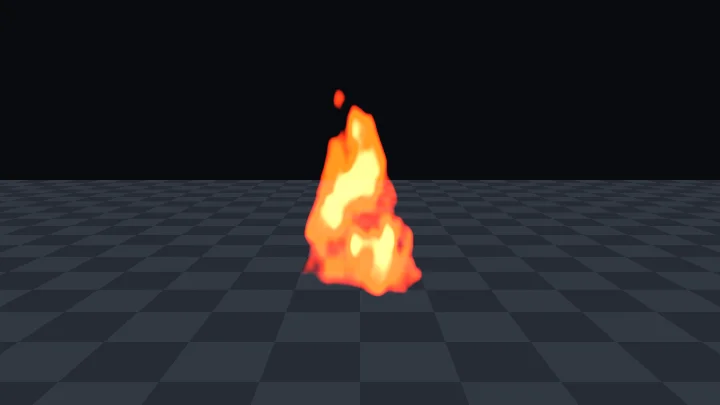
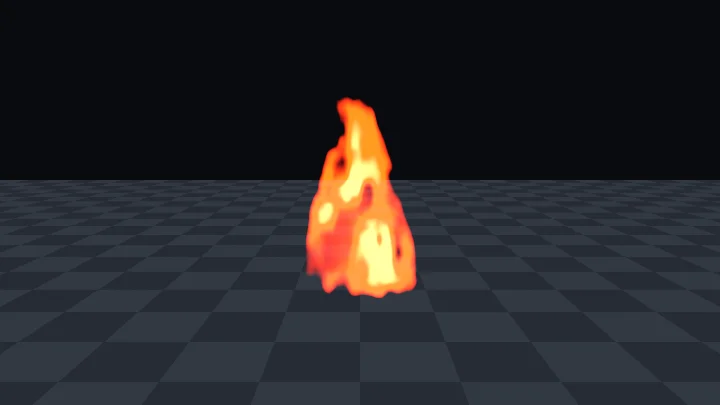
dispatch(fire-noise-flame-fix): 표본 수정: fire-noise-flame 리뷰 반영
Dispatch-Job: fire-noise-flame-fix
Dispatch-Profile: org
Dispatch-Model: claude-opus-5-5

Changed region(s): [[0.3972, 0.2074, 0.6111, 0.7407]]

diff --git a/web/src/specimens/fire-noise-flame/meta.ts b/web/src/specimens/fire-noise-flame/meta.ts
@@ -12,7 +12,7 @@ export const meta: SpecimenMeta = {
   order: 1,
   oneLiner: '흐르는 노이즈를 불꽃 모양으로 깎아 타오르게 한다',
   goals: [
-    '같은 노이즈 텍스처를 크기와 속도가 다른 두 층으로 위로 흘려 곱하면 무늬가 계속 바뀌어 일렁인다는 것을 설명할 수 있다.',
+    '같은 노이즈 텍스처를 두 층으로 위로 흘려 곱할 때, 두 층의 화면 속도(오프셋 속도 ÷ 반복 횟수)가 달라야 무늬가 계속 바뀌어 일렁인다는 것을 설명할 수 있다.',
     'UV 로 아래는 넓고 위로 갈수록 좁아지는 부드러운 불꽃 모양 마스크를 만들 수 있다.',
     '마스크와 노이즈를 합친 값을 `smoothstep` 으로 깎아 일렁이는 가장자리를 만들 수 있다.',
     '깎은 세기에 따라 노랑, 주황, 빨강을 칠하고 더하기 혼합으로 불을 그릴 수 있다.',
@@ -60,7 +60,7 @@ export const meta: SpecimenMeta = {
     {
       n: 2,
       label: '두 층 곱하기',
-      body: '같은 텍스처를 두 배 잘게, 두 배쯤 빠르게 한 번 더 읽어 곱하고 2 를 곱한다. 두 층이 모두 밝은 자리만 밝게 남아 1단계보다 어두운 얼룩과 가는 결이 많아진다. 두 층의 속도가 달라 겹치는 자리가 계속 바뀌므로, 재생하면 무늬가 미끄러지지 않고 끓듯이 모양을 바꾼다. 불이 일렁이는 것은 이 곱셈 덕분이다.',
+      body: '같은 텍스처를 두 배 잘게 한 번 더 읽어 곱하고 2 를 곱한다. 두 층이 모두 밝은 자리만 밝게 남아 1단계보다 어두운 얼룩과 가는 결이 많아진다. 화면 속도는 오프셋 속도를 반복 횟수로 나눈 값이라, 두 배로 반복한 층은 같은 오프셋을 더해도 화면에서 절반만 움직인다. 그래서 둘째 층은 오프셋 속도를 첫 층의 네 배(0.6 → 2.4)로 두어 화면에서 두 배 빠르게 오른다. 두 층의 화면 속도가 달라 겹치는 자리가 계속 바뀌므로, 재생하면 무늬가 위로 미끄러지지 않고 끓듯이 모양을 바꾼다. 불이 일렁이는 것은 이 곱셈 덕분이다.',
     },
     {
       n: 3,
@@ -70,7 +70,7 @@ export const meta: SpecimenMeta = {
     {
       n: 4,
       label: '깎은 불꽃',
-      body: '마스크에 노이즈를 곱한 값을 기준값에서 `smoothstep` 으로 깎은 결과다. 흰 덩어리가 3단계의 불꽃 모양을 따르지만 가장자리는 노이즈 때문에 울퉁불퉁하다. 마스크가 옅은 위쪽은 노이즈가 밝은 곳만 남아 혀처럼 갈라지고 작은 조각이 떨어져 나간다. 이 흰 부분이 알파가 된다. 가장자리 부드러움을 키우면 경계가 흐려진다. 최종 화면은 여기에 기준값을 넘은 정도에 따라 속은 노랑, 가운데는 주황, 가장자리는 빨강을 칠한 것이다.',
+      body: '마스크에 노이즈를 곱한 값을 기준값에서 `smoothstep` 으로 깎은 결과다. 흰 덩어리가 3단계의 불꽃 모양을 따르지만 가장자리는 노이즈 때문에 울퉁불퉁하다. 마스크가 옅은 위쪽은 노이즈가 밝은 곳만 남아 혀처럼 갈라지고 작은 조각이 떨어져 나간다. 이 흰 부분이 알파가 된다. 가장자리 부드러움을 키우면 경계가 흐려진다. 최종 화면은 여기에 색을 칠한 것이다. 색은 깎은 알파가 아니라 깎기 전 값이 기준값을 얼마나 넘었는지로 골라, 속은 노랑, 가운데는 주황, 가장자리는 빨강이 된다.',
     },
   ],
   offNote: '모양 마스크를 빼먹은 모습. 노이즈만 깎으니 Quad 전체가 타올라 사각형 판의 네 변이 그대로 드러난다. 무늬는 위로 흐르지만 불꽃이 아니라 불 무늬를 칠한 판처럼 보인다.',
@@ -81,15 +81,15 @@ export const meta: SpecimenMeta = {
     },
     {
       title: '사각형 판의 가장자리가 보인다',
-      body: '모양 마스크가 Quad 의 네 변에서 0 이 되어야 한다. 마스크를 빼거나 알파를 1 로 두면 효과 끄기 화면처럼 판이 통째로 탄다. 불꽃 폭을 0.5 넘게 키우거나 너울이 너무 커서 불꽃이 옆 변까지 밀리면 그 변에서 칼로 자른 듯 끊긴다. 불꽃이 더 커야 하면 값 대신 Transform 의 Scale 로 Quad 를 키운다.',
+      body: '모양 마스크가 Quad 의 네 변에서 0 이 되어야 한다. 마스크를 빼면 효과 끄기 화면처럼 판이 통째로 타오른다. 알파를 1 로 두면 깎여 나간 곳에도 가장자리 색이 더해져 Quad 가 빨간 사각형으로 보인다. 불꽃 폭을 0.5 넘게 키우거나 너울이 너무 커서 불꽃이 옆 변까지 밀리면 그 변에서 칼로 자른 듯 끊긴다. 불꽃이 더 커야 하면 값 대신 Transform 의 Scale 로 Quad 를 키운다.',
     },
     {
       title: '불이 흐르는 판처럼 미끄러지기만 한다',
-      body: '노이즈를 한 층만 흘리거나 두 층의 크기와 속도가 같으면 무늬가 통째로 위로 미끄러질 뿐 모양이 바뀌지 않는다. 같은 텍스처라도 두 층의 크기와 속도를 다르게 해야 겹치는 자리가 계속 바뀌어 일렁인다. 흐름 속도를 스크립트로 실행 중에 바꾸면 `_Time.y * 속도` 라서 무늬가 한 번에 튄다. 속도를 연출로 바꾸려면 C# 에서 `offset += speed * Time.deltaTime` 으로 쌓은 값을 넘겨 쓴다.',
+      body: '노이즈를 한 층만 흘리거나 두 층의 화면 속도가 거의 같으면 무늬가 통째로 위로 미끄러질 뿐 모양이 바뀌지 않는다. 화면 속도는 오프셋 속도를 반복 횟수로 나눈 값이다. 그래서 두 배로 반복한 층에 오프셋 속도도 두 배쯤 주면(`uv * 2 + t * 1.3` 과 `uv + t * 0.6`) 화면에서는 거의 같은 빠르기로 흐른다. 둘째 층은 원하는 화면 속도에 반복 횟수를 곱해 오프셋 속도로 쓴다. 이 표본은 첫 층의 두 배인 화면 속도 1.2 에 반복 2 를 곱해 2.4 다. 흐르는 방향을 다르게 해도 된다. 흐름 속도를 실행 중에 스크립트로 바꾸면 흐른 시간 전체에 곱해져 무늬가 한 번에 튄다.',
     },
     {
       title: '불이 하얗게 날아가거나 Bloom 을 켜니 빛 덩어리가 된다',
-      body: '세기는 색에 곱하는 HDR 배율이다. Bloom 이 없으면 1 을 넘는 채널이 1 에서 잘려 속이 흰빛이 되고, Bloom 이 있으면 그 값이 주변으로 크게 번진다. 기본값 1.5 는 Bloom 없이도 불로 보이게 고른 값이다. Bloom 을 켠 씬에서는 세기를 1 안팎으로 낮추고 Bloom 의 Threshold 와 Intensity 를 함께 맞춘다.',
+      body: '세기는 색에 곱하는 HDR 배율이다. 1 을 넘는 채널은 톤매핑이 없으면 1 에서 잘리고 톤매핑이 있으면 눌려서, 어느 쪽이든 속이 흰빛에 가까워진다. Bloom 이 있으면 그 값이 주변으로 크게 번진다. 기본값 1.5 는 Bloom 없이도 불로 보이게 고른 값이다. Bloom 을 켠 씬에서는 세기를 1 안팎으로 낮추고 Bloom 의 Threshold 와 Intensity 를 함께 맞춘다.',
     },
     {
       title: '불이 작고 어둡거나 무늬 없이 멈춰 있다',
@@ -102,24 +102,23 @@ export const meta: SpecimenMeta = {
       'Project 창에서 `FireNoiseFlameNoise.png` 를 고르고 Inspector 에서 Texture Type 은 Default, sRGB (Color Texture) 는 끄고, Wrap Mode 는 Repeat, Filter Mode 는 Bilinear, Compression 은 None 으로 맞춘 뒤 Apply 를 누른다.',
       '셰이더를 우클릭해 Create > Material 로 머티리얼을 만들고, 노이즈 텍스처 칸에 `FireNoiseFlameNoise.png` 를 넣는다.',
       'Hierarchy 에서 3D Object > Quad 를 만들고 머티리얼을 넣는다. Rotation 은 0 으로 두어 Quad 의 앞면이 -Z 쪽(새 씬의 카메라 쪽)을 보게 하고, 불의 아래 끝이 바닥에 닿도록 Position Y 를 Scale Y 의 절반쯤으로 올린다. 이 셰이더는 그림자를 만들지 않으므로 Mesh Renderer 의 Cast Shadows 를 Off 로, 필요 없으면 Mesh Collider 를 지운다.',
-      '카메라가 돌아다니는 게임이면 Quad 대신 Particle System 을 만들어 Renderer 모듈의 Material 에 이 머티리얼을 넣고 Render Mode 를 Vertical Billboard 로 둔다. 파티클은 카메라를 향해 돌고 위쪽은 서 있다. Start Rotation 은 0, Start Speed 는 0 으로 둔다.',
       'Bloom 을 쓰는 씬이면 머티리얼의 세기를 1 안팎으로 낮춘다.',
     ],
     verify: 'Quad 아래쪽에서 불꽃이 위로 타오르고, 가장자리가 일렁이며 속은 노랑, 바깥은 빨강이다. 흐름 속도를 0 으로 내리면 불이 멈추고, 불꽃 폭을 0.1 로 줄이면 촛불처럼 가늘어지며, 가장자리 부드러움을 0.4 로 올리면 경계가 연기처럼 흐려진다.',
     pitfalls: [
       '이 셰이더에는 `UniversalForward` 패스 하나만 있어 2D Renderer 에서는 그려지지 않는다. 3D 프로젝트용 효과다. 2D 에서 같은 원리를 쓰려면 스프라이트 셰이더로 옮긴다.',
-      'Quad 는 납작한 판이라 옆에서 보면 선이 되고, 뒤에서 보면 양면을 그리므로 좌우가 뒤집힌 불이 보인다. 카메라가 돌면 Particle System 의 Billboard 나 Vertical Billboard 로 카메라를 향하게 하거나, 스크립트로 Y 축만 카메라 쪽으로 돌린다. X 축까지 돌리면 위에서 볼 때 불꽃이 눕는다. Unity 기본 Plane 은 UV 가 180도 돌아 있어 불꽃이 카메라 쪽으로 누워 거꾸로 탄다.',
-      'Particle System 의 머티리얼로 쓰면 이 셰이더는 정점 색을 읽지 않아 Start Color 와 Color over Lifetime 이 무시된다. 파티클이 서서히 사라지지 않고 툭 사라지며, 모든 파티클이 같은 무늬로 같은 순간에 일렁인다. 래퍼에 `COLOR` 정점 입력을 받아 색과 알파에 곱하면 되지만 이 갤러리의 미리보기와 촬영에서는 확인하지 못했다.',
-      'Bloom 과 톤매핑이 없으면 1 을 넘는 색은 채널마다 1 에서 잘린다. 기본값은 Bloom 없이도 불로 보이게 골랐다. Bloom 을 켜면 같은 세기에서 빛이 크게 번지므로 세기를 낮춘다. 카메라의 Post Processing 과 URP Asset 의 HDR 이 켜져 있어야 HDR 값이 Bloom 까지 간다.',
-      '투명 물체라 깊이를 쓰지 않는다. 더하기 혼합은 그리는 순서와 상관없이 결과가 같아 불꽃끼리 겹쳐도 티가 나지 않지만, 겹친 곳은 더해져 더 밝다. 안개도 처리하지 않아 Lighting 창에서 Fog 를 켠 씬에서도 먼 불이 흐려지지 않고 그대로 밝다. 넓은 공간에 쓰면 래퍼에 안개를 넣는다 (변형 예시 참고).',
-      '노이즈 텍스처 칸이 비어 있으면 `linearGrey`(선형 0.5)가 들어가 무늬 없는 매끈한 불꽃이 움직이지 않는다. 셰이더를 고쳐 기본값을 `"gray"` 로 두면 Linear 프로젝트에서 약 0.21 로 읽혀 불이 작고 어둡게 쪼그라든다.',
+      'Quad 는 납작한 판이라 옆에서 보면 선이 되고, 뒤에서 보면 양면을 그리므로 좌우가 뒤집힌 불이 보인다. 카메라가 돌면 스크립트로 Quad 의 Y 축만 카메라 쪽으로 돌린다. X 축까지 돌리면 위에서 볼 때 불꽃이 눕는다. Unity 기본 Plane 은 UV 가 180도 돌아 있어 불꽃이 카메라 쪽으로 누워 거꾸로 탄다.',
+      'Particle System 의 Renderer 머티리얼로도 쓸 수 있다. 파티클 하나가 Quad 한 장처럼 불꽃 하나를 통째로 그린다. 새로 만든 Particle System 은 파티클을 계속 뿜어 수십 개가 Cone 모양으로 퍼지므로, 그대로 넣으면 같은 불꽃 여러 개가 겹쳐 하얗게 뜬다. 파티클 수와 속도, 퍼짐을 줄이고 Renderer 모듈의 Render Mode 를 Vertical Billboard 로 하면 서 있는 불꽃이 카메라를 향한다. 셰이더가 정점 색을 받아 색과 알파에 곱하므로 Start Color 와 Color over Lifetime 이 먹고, Color over Lifetime 의 알파로 서서히 나타나고 사라지게 할 수 있다. 다만 모든 파티클이 같은 무늬로 같은 순간에 일렁인다. 이 갤러리의 미리보기와 촬영은 Quad 라 파티클에서는 확인하지 못했다.',
+      '1 을 넘는 색은 Bloom 과 톤매핑이 없으면 채널마다 1 에서 잘리고, 톤매핑이 있으면 눌린다. 기본값은 Bloom 없이도 불로 보이게 골랐다. Bloom 을 켜면 같은 세기에서 빛이 크게 번지므로 세기를 낮춘다. 카메라의 Post Processing 과 URP Asset 의 HDR 이 켜져 있어야 HDR 값이 Bloom 까지 간다.',
+      '투명 물체라 깊이를 쓰지 않는다. 더하기 혼합은 그리는 순서와 상관없이 결과가 같아 불꽃끼리는 겹쳐도 정렬 문제가 생기지 않지만, 겹친 곳은 더해져 더 밝다. 순서와 상관없는 것은 불꽃끼리일 때뿐이다. 알파 혼합인 연기나 유리와 섞이면 Unity 가 물체 중심까지의 거리로 그리는 순서를 정하므로, 보는 위치에 따라 연기 뒤의 불이 연기 앞에 뜨는 식으로 앞뒤가 뒤바뀔 수 있다. 또 불꽃 밖의 빈 곳도 Quad 전체를 그리므로, 큰 Quad 나 파티클을 여러 장 겹치면 같은 픽셀을 여러 번 그려(과드로우) 모바일과 XR 에서 비용이 크다.',
+      '안개를 처리하지 않아 Lighting 창에서 Fog 를 켠 씬에서도 먼 불이 흐려지지 않고 그대로 밝다. 넓은 공간에 쓰면 래퍼에 안개를 넣는다 (변형 예시 참고).',
     ],
-    graph: 'Shader Graph 로 옮기려면 UV 노드에 노이즈 크기를 곱하고, Time 노드에 흐름 속도와 0.6 을 곱해 Negate 한 값을 Tiling And Offset 노드의 Offset y 에 넣어 첫 층을 읽는다. 둘째 층은 크기를 두 배, 속도를 1.3 배로 같은 텍스처를 읽고, 두 값을 Multiply 한 뒤 2 를 곱한다. 모양 마스크는 UV 의 y 를 불꽃 높이로 나눈 h 로 반폭(폭 × (1 - 0.8h))을 구하고, UV 의 x 에서 0.5 를 뺀 절댓값을 반폭으로 나눈 값을 제곱해 One Minus 한 것에 (1 - h²) 와 Smoothstep(0, 0.15, y) 를 곱한다. 마스크 × (노이즈 + 0.3) × 2.5 를 Smoothstep(0.5 - 부드러움, 0.5 + 부드러움) 으로 깎아 Alpha 에 넣고, 같은 값으로 Lerp 두 번을 해 빨강, 주황, 노랑을 고른다. Graph Settings 는 Surface Type Transparent, Blending Mode Additive, Render Face Both 로 둔다.',
+    graph: 'URP 의 Unlit Shader Graph 로 만든다 (빛을 받지 않는 발광 효과다). 아래에서 시간은 Time 노드의 Time 에 흐름 속도를 곱한 t 다. 노이즈 첫 층은 Tiling And Offset 노드의 Tiling 에 노이즈 크기, Offset 에 (0, -t × 0.6) 을 넣어 같은 텍스처를 읽는다. 둘째 층은 Tiling 을 노이즈 크기의 두 배, Offset 을 (0.37, -t × 2.4) 로 둔다. 화면 속도는 오프셋 속도 ÷ 반복 횟수라 둘째 층은 2.4 ÷ 2 = 1.2 로 첫 층(0.6)의 두 배다. 두 층을 Multiply 한 뒤 2 를 곱해 노이즈로 쓴다. h 는 UV 의 y 를 불꽃 높이로 나눠 Saturate 한 값이다. 너울은 Tiling 0.5, Offset (0.21, -t × 0.25) 로 한 번 더 읽어 0.5 를 빼고 너울 세기와 h 를 곱한 값이다. 모양 마스크는 UV 의 x 에서 0.5 를 빼고 너울을 더한 값의 절댓값을 반폭(폭 × (1 - 0.8h))으로 나눠 Saturate 하고, 제곱해 One Minus 한 것에 (1 - h²) 와 Smoothstep(0, 0.15, y) 를 곱한다. fire = 마스크 × (노이즈 + 0.3) × 2.5 를 Smoothstep(0.5 - 부드러움, 0.5 + 부드러움) 으로 깎은 값이 알파다. 색은 깎은 알파가 아니라 fire 로 고른다. heat = Saturate((fire - 0.5) ÷ 2) 를 만들어 가장자리 색과 가운데 색을 Smoothstep(0, 0.3, heat) 로 Lerp 하고, 그 결과와 속 색을 Smoothstep(0.5, 1, heat) 로 다시 Lerp 한다 (깎은 알파로 고르면 속이 거의 노랑이 된다). 색에 세기와 Vertex Color 노드를 곱해 Base Color 에, 알파에 Vertex Color 의 A 를 곱해 Alpha 에 넣는다. Graph Settings 는 Surface Type Transparent, Blending Mode Additive, Render Face Both 로 둔다.',
   },
   prompt: {
     goal: 'Quad 에 흐르는 노이즈 두 층을 곱하고 불꽃 모양 마스크로 깎아, 속은 노랑, 가운데는 주황, 가장자리는 빨강으로 일렁이는 기본 불꽃을 더하기 혼합으로 넣는다.',
     adaptIdeas: [
-      'Particle System 의 Renderer 머티리얼로 써서 카메라를 향하는 불꽃 여러 개를 띄우고, Color over Lifetime 으로 색이 바뀌며 서서히 사라지게 하고 싶다. 파티클마다 무늬도 서로 어긋나게 하고 싶다.',
+      'Particle System 의 Renderer 머티리얼로 써서 카메라를 향하는 불꽃 몇 개를 띄우고 싶다. 새 Particle System 그대로는 불꽃이 너무 많이 겹쳐 하얗게 뜨니 파티클 수와 퍼짐을 알맞게 줄이고, Color over Lifetime 으로 색이 바뀌며 서서히 나타나고 사라지게 하고 싶다 (셰이더는 이미 정점 색을 곱한다). 파티클마다 무늬도 서로 어긋나게 하고 싶다.',
       'Quad 하나로 만든 모닥불이 카메라를 따라 세로 축으로만 돌아 늘 정면으로 보이게 하고 싶다.',
       '횃불을 켜고 끌 때 불꽃 높이가 서서히 커지고 줄어들게 하고 싶다.',
       '바람이 부는 방향으로 불꽃 위쪽이 한쪽으로 기울게 하고 싶다.',
@@ -136,7 +135,7 @@ export const meta: SpecimenMeta = {
       title: 'Diablo III (2012)',
       credit: 'Blizzard Entertainment',
       borrowed: ['같은 노이즈 여러 층 곱하기', '부드러운 모양 마스크'],
-      learned: 'GDC 2013 Technical Artist Bootcamp 발표 "The VFX of Diablo" 가 같은 노이즈 텍스처 여러 장을 곱하는 공식(`Tex1.a × Tex2.a × 2`)을 보여 준다 (세션 제목과 발표자만 확인했다). JangaFX 의 분석 글은 이를 크기가 다른 같은 노이즈 층과 모양을 잡는 부드러운 마스크로 재현한다. 이 표본의 2단계(두 층 곱하기)와 3단계(모양 마스크)가 이 두 축이다. 게임 화면은 직접 확인하지 않았다.',
+      learned: 'JangaFX 의 분석 글에 따르면 GDC 2013 Technical Artist Bootcamp 발표 "The VFX of Diablo" 는 같은 노이즈 텍스처 여러 장을 곱하는 공식(`Tex1.a × Tex2.a × 2`)을 보여 주고, 글은 이를 크기가 다른 같은 노이즈 층과 모양을 잡는 부드러운 마스크로 재현한다. 이 표본의 2단계(두 층 곱하기)와 3단계(모양 마스크)가 이 두 축이다. 발표는 세션 제목과 발표자만 확인했고, 발표 내용과 게임 화면은 직접 확인하지 않았다.',
       link: 'https://gdcvault.com/play/1017660/Technical-Artist-Bootcamp-The-VFX',
     },
   ],
